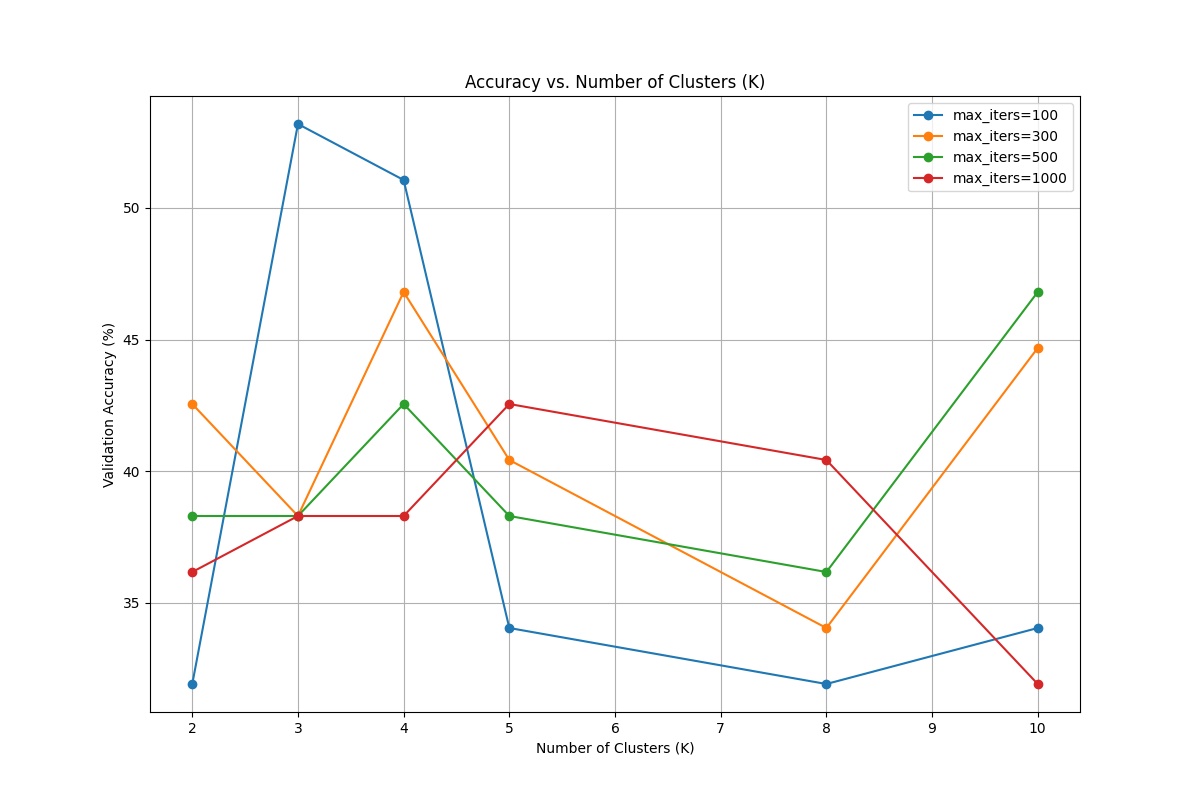
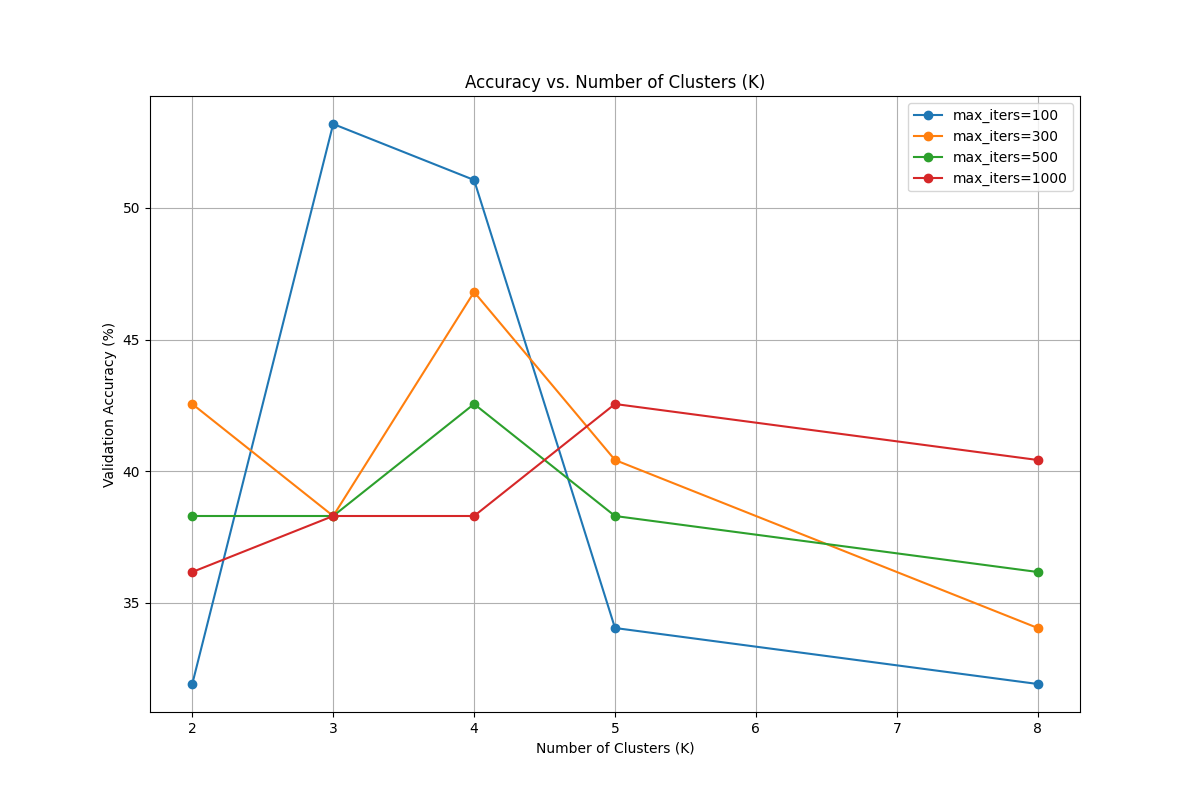
ok la team

diff --git a/main.py b/main.py
@@ -256,7 +256,7 @@ def main(args):
         best_max_iters = args.max_iters
 
         # Try different K values and max iterations
-        k_values = [2, 3, 4, 5, 8, 10]
+        k_values = [2, 3, 4, 5, 8]
         max_iters_options = [100, 300, 500, 1000]
 
         # Store results for plotting
